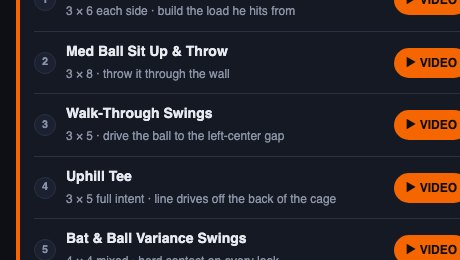
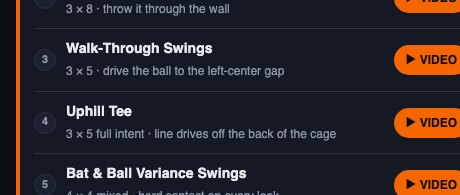
Edit pass: clean side-by-side Swing Lab, app comp card, loft+tilt into The App, iPDP one-pager in Now What, progress recrop, no retest or anonymity copy, softball chips removed

diff --git a/index.html b/index.html
@@ -247,9 +247,9 @@ footer{padding-block:52px 64px;display:grid;gap:14px;color:var(--muted);font-siz
   </header>
 
   <section id="hitters">
-    <div class="head reveal"><div class="eyebrow">Hitters</div><h2>Every swing measured. Every swing on video.</h2><p class="lead">Built for a college program, handed to campers. Names and faces removed.</p></div>
+    <div class="head reveal"><div class="eyebrow">Hitters</div><h2>Every swing measured. Every swing on video.</h2><p class="lead">Built for a college program, handed to campers.</p></div>
     <div class="gal">
-<div class="gi reveal" style="--c:var(--coral)"><div class="im "><img src="img/kzone.jpg" alt="K-Zone drawn on the center-field video"></div><div class="tx"><div class="k">K-Zone</div><h3>Every pitch, graded on the video</h3><p>Green or red against his own damage zone.</p></div></div><div class="gi reveal" style="--c:var(--mint)"><div class="im "><img src="img/depth.jpg" alt="Contact depth drawn on the open-side video"></div><div class="tx"><div class="k">Contact depth</div><h3>Where the bat met the ball</h3><p>Inches from the plate, against his damage window.</p></div></div><div class="gi reveal" style="--c:var(--sky)"><div class="im "><img src="img/t130_damage.jpg" alt="Loft and tilt by pitch height with the drills that move it"></div><div class="tx"><div class="k">Loft + tilt</div><h3>His damage window by pitch height</h3><p>In the window or not, top to bottom of the zone. Then the drills.</p></div></div><div class="gi reveal" style="--c:var(--mint)"><div class="im "><img src="img/t130_ep.jpg" alt="At-bat card with every pitch"></div><div class="tx"><div class="k">Every pitch</div><h3>The whole at-bat, on video</h3><p>Type, velocity, location and result for every pitch.</p></div></div><div class="gi reveal" style="--c:var(--sky)"><div class="im phone"><img src="img/app_abs.jpg" alt="Game at-bats list"></div><div class="tx"><div class="k">Game at-bats</div><h3>His video library</h3><p>Every plate appearance, every angle, every number.</p></div></div><div class="gi reveal" style="--c:var(--coral)"><div class="im "><img src="img/t130_spot.jpg" alt="Swing Lab overlay with a Major League comparison"></div><div class="tx"><div class="k">Swing Lab</div><h3>His swing against a big leaguer</h3><p>Skeleton overlay synced at impact, matched on bat path.</p></div></div>
+<div class="gi reveal" style="--c:var(--coral)"><div class="im "><img src="img/kzone.jpg" alt="K-Zone drawn on the center-field video"></div><div class="tx"><div class="k">K-Zone</div><h3>Every pitch, graded on the video</h3><p>Green or red against his own damage zone.</p></div></div><div class="gi reveal" style="--c:var(--mint)"><div class="im "><img src="img/depth.jpg" alt="Contact depth drawn on the open-side video"></div><div class="tx"><div class="k">Contact depth</div><h3>Where the bat met the ball</h3><p>Inches from the plate, against his damage window.</p></div></div><div class="gi reveal" style="--c:var(--mint)"><div class="im "><img src="img/t130_ep.jpg" alt="At-bat card with every pitch"></div><div class="tx"><div class="k">Every pitch</div><h3>The whole at-bat, on video</h3><p>Type, velocity, location and result for every pitch.</p></div></div><div class="gi reveal" style="--c:var(--sky)"><div class="im phone"><img src="img/app_abs.jpg" alt="Game at-bats list"></div><div class="tx"><div class="k">Game at-bats</div><h3>His video library</h3><p>Every plate appearance, every angle, every number.</p></div></div><div class="gi reveal" style="--c:var(--coral)"><div class="im"><img src="img/comp_side.jpg" alt="Side by side at impact: a college hitter and Jackson Chourio"></div><div class="tx"><div class="k">Swing Lab</div><h3>Side by side with the big leaguer who swings like him</h3><p>Synced at impact, matched on bat path before body type.</p></div></div>
     </div>
   </section>
 
@@ -274,9 +274,9 @@ footer{padding-block:52px 64px;display:grid;gap:14px;color:var(--muted);font-siz
   </section>
 
   <section id="app">
-    <div class="head reveal"><div class="eyebrow">The App</div><h2>Inside the Damage &amp; Chaos app.</h2><p class="lead">Where the numbers live all season. Real screens, names removed.</p></div>
+    <div class="head reveal"><div class="eyebrow">The App</div><h2>Inside the Damage &amp; Chaos app.</h2><p class="lead">Where the numbers live all season.</p></div>
     <div class="gal">
-<div class="gi reveal" style="--c:var(--mint)"><div class="im "><img src="img/t130_hunt.jpg" alt="Hunting damage heat map of the strike zone"></div><div class="tx"><div class="k">Hunting damage</div><h3>Where his barrels live</h3><p>The zone to hunt with less than two strikes.</p></div></div><div class="gi reveal" style="--c:var(--coral)"><div class="im "><img src="img/t130_spray1.jpg" alt="One hitter spray chart with every ball in play colored by result"></div><div class="tx"><div class="k">Spray chart</div><h3>Every ball. Tap a dot, the video plays.</h3><p>One hitter, 42 balls in play, filtered by game, result and pitcher hand.</p></div></div><div class="gi reveal" style="--c:var(--sky)"><div class="im "><img src="img/comp_side.jpg" alt="Side-by-side video frame: a college hitter and Jackson Chourio at impact"></div><div class="tx"><div class="k">MLB comp</div><h3>Side by side with the big leaguer who swings like him</h3><p>Synced at impact, matched on bat path before body type.</p></div></div><div class="gi reveal" style="--c:var(--coral)"><div class="im "><img src="img/t130_leaders.jpg" alt="Leaderboards by category"></div><div class="tx"><div class="k">Leaderboards</div><h3>By event or by age group</h3><p>Swing decisions, quality contact, bat tracking. Never a ranking for sale.</p></div></div><div class="gi reveal" style="--c:var(--sky)"><div class="im phone"><img src="img/app_progress.jpg" alt="Progress chart"></div><div class="tx"><div class="k">Progress</div><h3>Him against him</h3><p>Every retest is a point on his line.</p></div></div><div class="gi reveal" style="--c:var(--mint)"><div class="im phone"><img src="img/app_home.jpg" alt="Player app home screen"></div><div class="tx"><div class="k">His page</div><h3>Everything in one place</h3><p>W.I.N., at-bats, eval, plan, comp, routine, recruiting.</p></div></div>
+<div class="gi reveal" style="--c:var(--mint)"><div class="im "><img src="img/t130_hunt.jpg" alt="Hunting damage heat map of the strike zone"></div><div class="tx"><div class="k">Hunting damage</div><h3>Where his barrels live</h3><p>The zone to hunt with less than two strikes.</p></div></div><div class="gi reveal" style="--c:var(--sky)"><div class="im "><img src="img/t130_damage.jpg" alt="Loft and tilt by pitch height with the drills that move it"></div><div class="tx"><div class="k">Loft + tilt</div><h3>His damage window by pitch height</h3><p>In the window or not, top to bottom of the zone. Then the drills.</p></div></div><div class="gi reveal" style="--c:var(--coral)"><div class="im "><img src="img/t130_spray1.jpg" alt="One hitter spray chart with every ball in play colored by result"></div><div class="tx"><div class="k">Spray chart</div><h3>Every ball. Tap a dot, the video plays.</h3><p>One hitter, 42 balls in play, filtered by game, result and pitcher hand.</p></div></div><div class="gi reveal" style="--c:var(--sky)"><div class="im phone"><img src="img/app_comp.jpg" alt="MLB comparison card in the app with the comp's exit velocity, sweet-spot and bat-speed numbers"></div><div class="tx"><div class="k">MLB comp</div><h3>Who swings like him</h3><p>The big leaguer with his bat path, his numbers beside yours, and his damage video on Savant.</p></div></div><div class="gi reveal" style="--c:var(--coral)"><div class="im "><img src="img/t130_leaders.jpg" alt="Leaderboards by category"></div><div class="tx"><div class="k">Leaderboards</div><h3>By event or by age group</h3><p>Swing decisions, quality contact, bat tracking. Never a ranking for sale.</p></div></div><div class="gi reveal" style="--c:var(--sky)"><div class="im phone"><img src="img/app_progress.jpg" alt="Progress chart"></div><div class="tx"><div class="k">Progress</div><h3>Him against him</h3><p>Every new capture is a point on his line.</p></div></div><div class="gi reveal" style="--c:var(--mint)"><div class="im phone"><img src="img/app_home.jpg" alt="Player app home screen"></div><div class="tx"><div class="k">His page</div><h3>Everything in one place</h3><p>W.I.N., at-bats, eval, plan, comp, routine, recruiting.</p></div></div>
     </div>
   </section>
 
@@ -285,10 +285,10 @@ footer{padding-block:52px 64px;display:grid;gap:14px;color:var(--muted);font-siz
     <div class="nw reveal">
       <div><div class="k" style="color:var(--sky)">The number · sample camper, 13</div><div class="big">43%<small>hard-hit</small></div><div class="bar"><i style="width:43%;background:var(--sky)"></i></div><div class="goal">Goal for his class · 80%</div><p>Peak exit velocity 87.9. Hard-hit rate 43 percent.</p></div>
       <div><div class="k" style="color:var(--mint)">What it means</div><p><b>When he squares it up, it's loud. The opportunity is how often.</b> The bat speed is there. The body has not caught up to it yet.</p></div>
-      <div><div class="k" style="color:var(--coral)">What we do about it</div><ol><li>Activation every time he hits</li><li>Goblet lateral lunge <span>· 3 × 6</span></li><li>Med ball sit-up and throw <span>· 3 × 8</span></li><li>Walk-through swings <span>· 3 × 5</span></li><li>Uphill tee <span>· 3 × 10</span></li></ol><p>Twelve weeks, every drill on video, retest at the next camp.</p></div>
+      <div><div class="k" style="color:var(--coral)">What we do about it</div><ol><li>Activation every time he hits</li><li>Goblet lateral lunge <span>· 3 × 6</span></li><li>Med ball sit-up and throw <span>· 3 × 8</span></li><li>Walk-through swings <span>· 3 × 5</span></li><li>Uphill tee <span>· 3 × 10</span></li></ol><p>Every drill on video. The plan rebuilds with every new file.</p></div>
     </div>
     <div class="gal" style="margin-top:16px">
-<div class="gi reveal" style="--c:var(--mint)"><div class="im phone"><img src="img/app_win.jpg" alt="W.I.N. screen"></div><div class="tx"><div class="k">W.I.N.</div><h3>One strength, one growth target</h3><p>What is important now, in a read he can repeat.</p></div></div><div class="gi reveal" style="--c:var(--sky)"><div class="im phone"><img src="img/app_ipdp.jpg" alt="Individual player development plan with activation and drills"></div><div class="tx"><div class="k">iPDP</div><h3>Activation and drills, on video</h3><p>Build the body, then build the swing. Every drill plays on tap.</p></div></div><div class="gi reveal" style="--c:var(--coral)"><div class="im "><img src="img/t130_damage.jpg" alt="Loft and tilt block with the drills that move it"></div><div class="tx"><div class="k">Development plan</div><h3>The drills that move the number</h3><p>Matched to his growth target, retested at the next capture.</p></div></div><div class="gi reveal" style="--c:var(--mint)"><div class="im "><img src="img/fte_kit.jpg" alt="5 Tool Email kit"></div><div class="tx"><div class="k">5 Tool Email</div><h3>The recruiting email, built from his numbers</h3><p>Coach, subject, body, video, contacts. The family sends it.</p></div></div>
+<div class="gi reveal" style="--c:var(--mint)"><div class="im phone"><img src="img/app_win.jpg" alt="W.I.N. screen"></div><div class="tx"><div class="k">W.I.N.</div><h3>One strength, one growth target</h3><p>What is important now, in a read he can repeat.</p></div></div><div class="gi reveal" style="--c:var(--sky)"><div class="im phone"><img src="img/app_ipdp.jpg" alt="Individual player development plan with activation and drills"></div><div class="tx"><div class="k">Dev plan</div><h3>Activation and drills, on video</h3><p>Build the body, then build the swing. Every drill plays on tap.</p></div></div><div class="gi reveal" style="--c:var(--coral)"><div class="im"><img src="img/ipdp_onepager.jpg" alt="One-page individual player development plan: W.I.N., game scoreboard, three pillars, damage zone and the next two weeks"></div><div class="tx"><div class="k">iPDP</div><h3>One page. Everything.</h3><p>His W.I.N., his scoreboard, the three pillars, his damage zone and the next two weeks, on one page he can hold.</p></div></div><div class="gi reveal" style="--c:var(--mint)"><div class="im "><img src="img/fte_kit.jpg" alt="5 Tool Email kit"></div><div class="tx"><div class="k">5 Tool Email</div><h3>The recruiting email, built from his numbers</h3><p>Coach, subject, body, video, contacts. The family sends it.</p></div></div>
     </div>
   </section>
 
@@ -308,14 +308,13 @@ footer{padding-block:52px 64px;display:grid;gap:14px;color:var(--muted);font-siz
     <div class="chips reveal">
       <span>TrackMan</span><span>Hawk-Eye</span><span>Rapsodo</span><span>Pocket Radar</span><span>Stalker</span><span>Blast</span><span>Diamond Kinetics</span><span>HitTrax</span><span>Motion capture</span><span>Force plates</span><span style="color:var(--muted);font-family:var(--body);font-weight:400">CSV · XLSX · JSON · a screenshot</span>
     </div>
-    <div class="soft reveal"><span style="background:var(--mint)">Baseball first.</span><span style="background:var(--coral)">Softball next.</span></div>
   </section>
 
   <footer id="contact">
     <div class="eyebrow">Contact</div>
     <a class="contact" href="mailto:hello@dugoutdigital.io">hello@dugoutdigital.io</a>
     <p style="color:var(--muted);max-width:52ch">Family-owned software company in Clemson, South Carolina. Built for a college program first. Tested by the players it is for. <a href="never.html">What we will never do →</a></p>
-    <p class="fine">Dugout Digital, LLC. Dugout Digital licenses evaluation software to camps, teams, events and programs and is never the merchant of record for a family. It is not a recruiting service: it makes no introductions and does no outreach on a player's behalf. Players opt in to the database and control what is visible. Camps described here are open to any and all entrants, limited only by number, age, grade level and gender. Screens and data on this page come from two fictional sample campers and from a college roster with players unidentified. © 2026 Dugout Digital, LLC</p>
+    <p class="fine">Dugout Digital, LLC. Dugout Digital licenses evaluation software to camps, teams, events and programs and is never the merchant of record for a family. It is not a recruiting service: it makes no introductions and does no outreach on a player's behalf. Players opt in to the database and control what is visible. Camps described here are open to any and all entrants, limited only by number, age, grade level and gender. © 2026 Dugout Digital, LLC</p>
   </footer>
 </div>
 <script>
